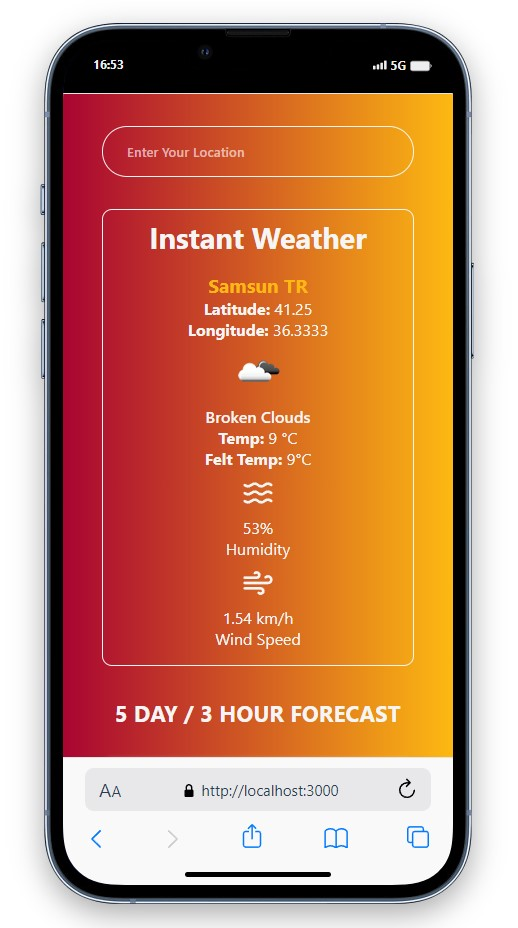
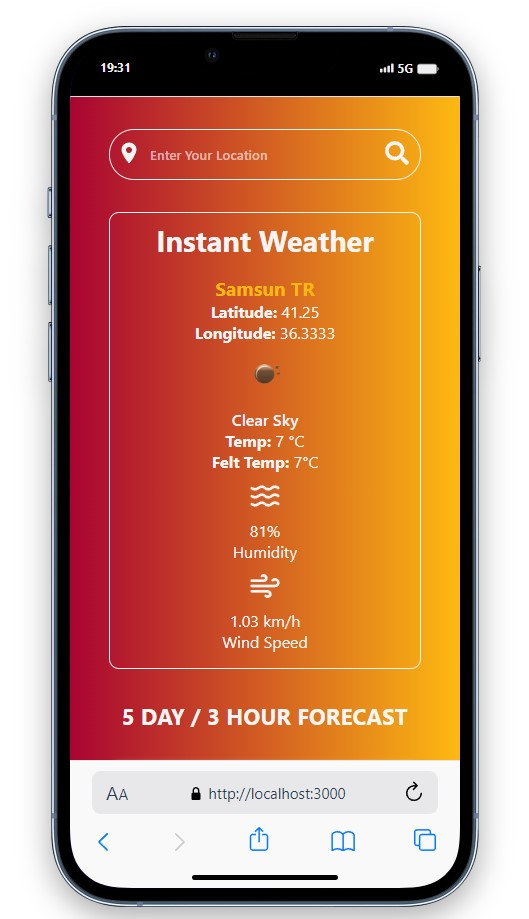
lokasyon tuşu ve sweetalert eklendi. readme güncellendi

Changed region(s): [[0.0618, 0.0, 0.9266, 1.0]]

diff --git a/src/pages/Home.jsx b/src/pages/Home.jsx
@@ -4,29 +4,37 @@ import Search from "../components/search/Search";
 import { useState } from "react";
 import Haftalik from "../components/haftalik/Haftalik";
 import axios from "axios";
+import Swal from 'sweetalert2'
 
 const Home = () => {
-  const [search, setSearch] = useState("Samsun");
+  const [search, setSearch] = useState("");
   const [guncelData, setGuncelData] = useState([]);
   const [haftalikData, setHaftalikData] = useState([]);
 
   const getGuncel = async () => {
     try {
-      const url = `https://api.openweathermap.org/data/2.5/weather?q=${search}&appid=${process.env.REACT_APP_API_KEY}&units=metric`;
+      const url = `https://api.openweathermap.org/data/2.5/weather?q=${search || "Samsun"}&appid=${process.env.REACT_APP_API_KEY}&units=metric`;
       const res = await axios.get(url);
       setGuncelData(res.data);
     } catch (error) {
-      console.log(error);
+      Swal.fire({
+        icon: "error",
+        text: "Please enter a valid location",
+      });
     }
   };
 
   const getHaftalik = async () => {
     try {
-      const url = `https://api.openweathermap.org/data/2.5/forecast?units=metric&q=${search}&appid=${process.env.REACT_APP_API_KEY}`;
+      const url = `https://api.openweathermap.org/data/2.5/forecast?units=metric&q=${search || "Samsun"}&appid=${process.env.REACT_APP_API_KEY}`;
       const res = await axios.get(url);
       setHaftalikData(res.data);
     } catch (error) {
-      console.log(error);
+      Swal.fire({
+        icon: "error",
+        title: "Oops...",
+        text: "Please enter a valid location",
+      });
     }
   };
 
@@ -42,6 +50,7 @@ const Home = () => {
         getHaftalik={getHaftalik}
         setSearch={setSearch}
         search={search}
+        guncelData={guncelData}
       />
       <Guncel guncelData={guncelData} />
       <h1 className="haftalik-h1">5 Day / 3 Hour Forecast</h1>

diff --git a/src/components/search/Search.jsx b/src/components/search/Search.jsx
@@ -1,14 +1,23 @@
 import "./Search.css"
 import { FaSearch } from "react-icons/fa";
+import { IoLocationSharp } from "react-icons/io5";
 
-const Search = ({search,setSearch,getGuncel,getHaftalik}) => {
+const Search = ({search,setSearch,getGuncel,getHaftalik,guncelData}) => {
   const handleSubmit = (e) => {
     e.preventDefault()
-    getGuncel()
-    getHaftalik()
+    if (search.trim() !== "") {
+      getGuncel();
+      getHaftalik();
+    }
   }
+
+  const handleClick = () => {
+    window.open(`https://openweathermap.org/city/${guncelData.id}`, "_blank");
+  }
+
   return (
     <form className="input-div" onSubmit={handleSubmit}>
+      <span className="search-location" onClick={handleClick}><IoLocationSharp /></span>
       <input
         className="input"
         type="text"

diff --git a/src/components/search/Search.css b/src/components/search/Search.css
@@ -11,7 +11,7 @@
 
 .input {
     width: 80%;
-    padding: 1rem 2.5rem 1rem 1.5rem;
+    padding: 1rem 2.5rem;
     border-radius: 25px;
     border: none;
     outline: none;
@@ -30,4 +30,13 @@
     right: 13%;
     top: 10px;
     color: whitesmoke;
+}
+
+.search-location {
+    position: absolute;
+    left: 12%;
+    top: 10px;
+    color: whitesmoke;
+    font-size: 1.5rem;
+    cursor: pointer;
 }

diff --git a/src/components/guncel/Guncel.module.css b/src/components/guncel/Guncel.module.css
@@ -68,7 +68,8 @@
     }
 
     .wind-div{
-        margin-left: .5rem;
+        margin-left: .7rem;
+        gap: .9rem;
     }
 }
 
@@ -91,5 +92,6 @@
 
     .wind-div{
         margin-left: 0rem;
+        gap: .5rem;
     }
 }

diff --git a/README.md b/README.md
@@ -17,6 +17,8 @@ This project, created with React, is a website that utilizes the OpenWeatherMap 
 - Instant and weekly weather forecast for a specific location.
 - Each day can be expanded to view detailed weather information.
 - Shows information such as temperature, felt temperature, humidity, wind speed, and pressure.
+- When the location button is clicked, it redirects to the [OpenWeatherMap](https://openweathermap.org/) page containing information about the entered location.
+- It provides a warning when an invalid location is entered
 
 ## Technologies Used
 
@@ -25,6 +27,7 @@ This project, created with React, is a website that utilizes the OpenWeatherMap 
 - [OpenWeatherMap API](https://openweathermap.org/) for weather data
 - Icons from [React Icons](https://react-icons.github.io/react-icons/)
 - Styling with CSS (module)
+- Sweetalert2 for alert 
 
 ## Project Skeleton
 
